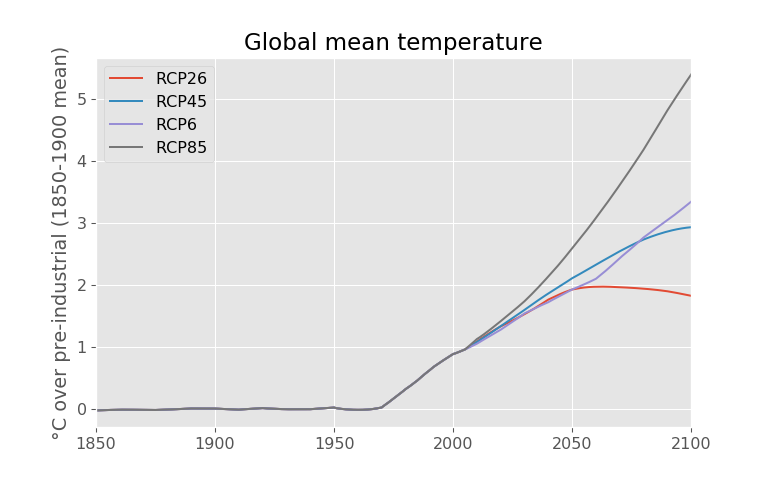
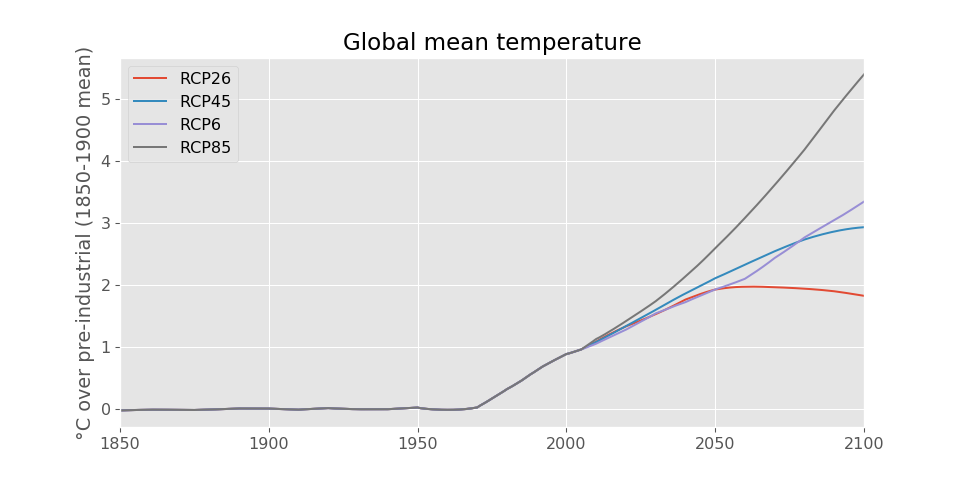
Make image wider
[skip ci]

diff --git a/scripts/plot_example.py b/scripts/plot_example.py
@@ -2,7 +2,7 @@ import os
 
 import matplotlib.pyplot as plt
 plt.style.use("ggplot")
-plt.rcParams["figure.figsize"] = 8, 5
+plt.rcParams["figure.figsize"] = 10, 5
 plt.rcParams["font.size"] = 12
 
 import pyhector
